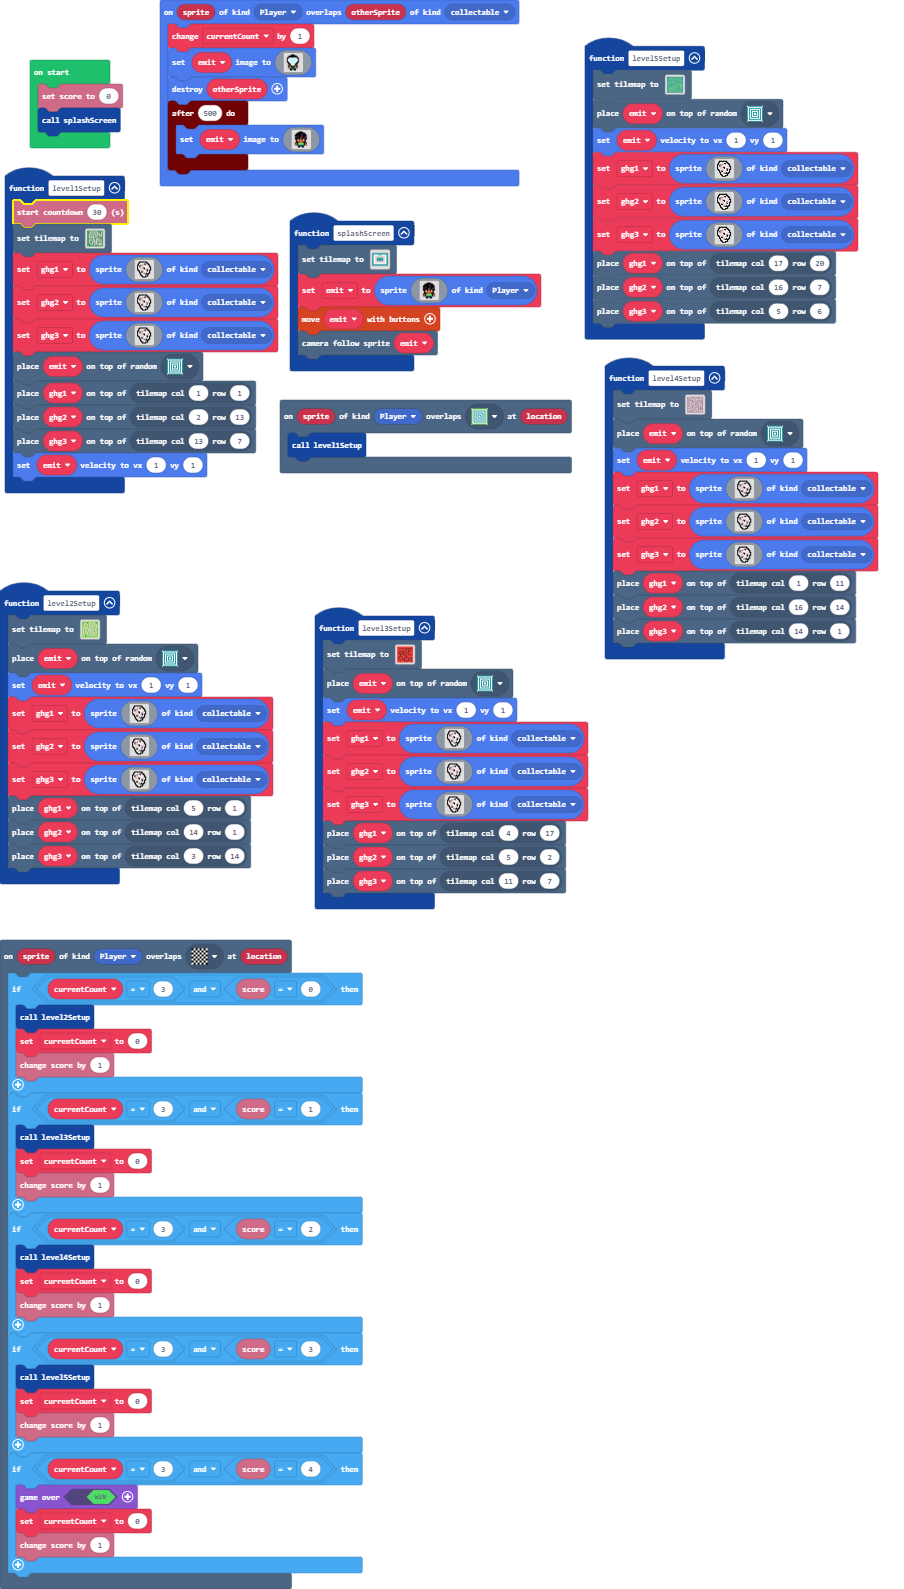
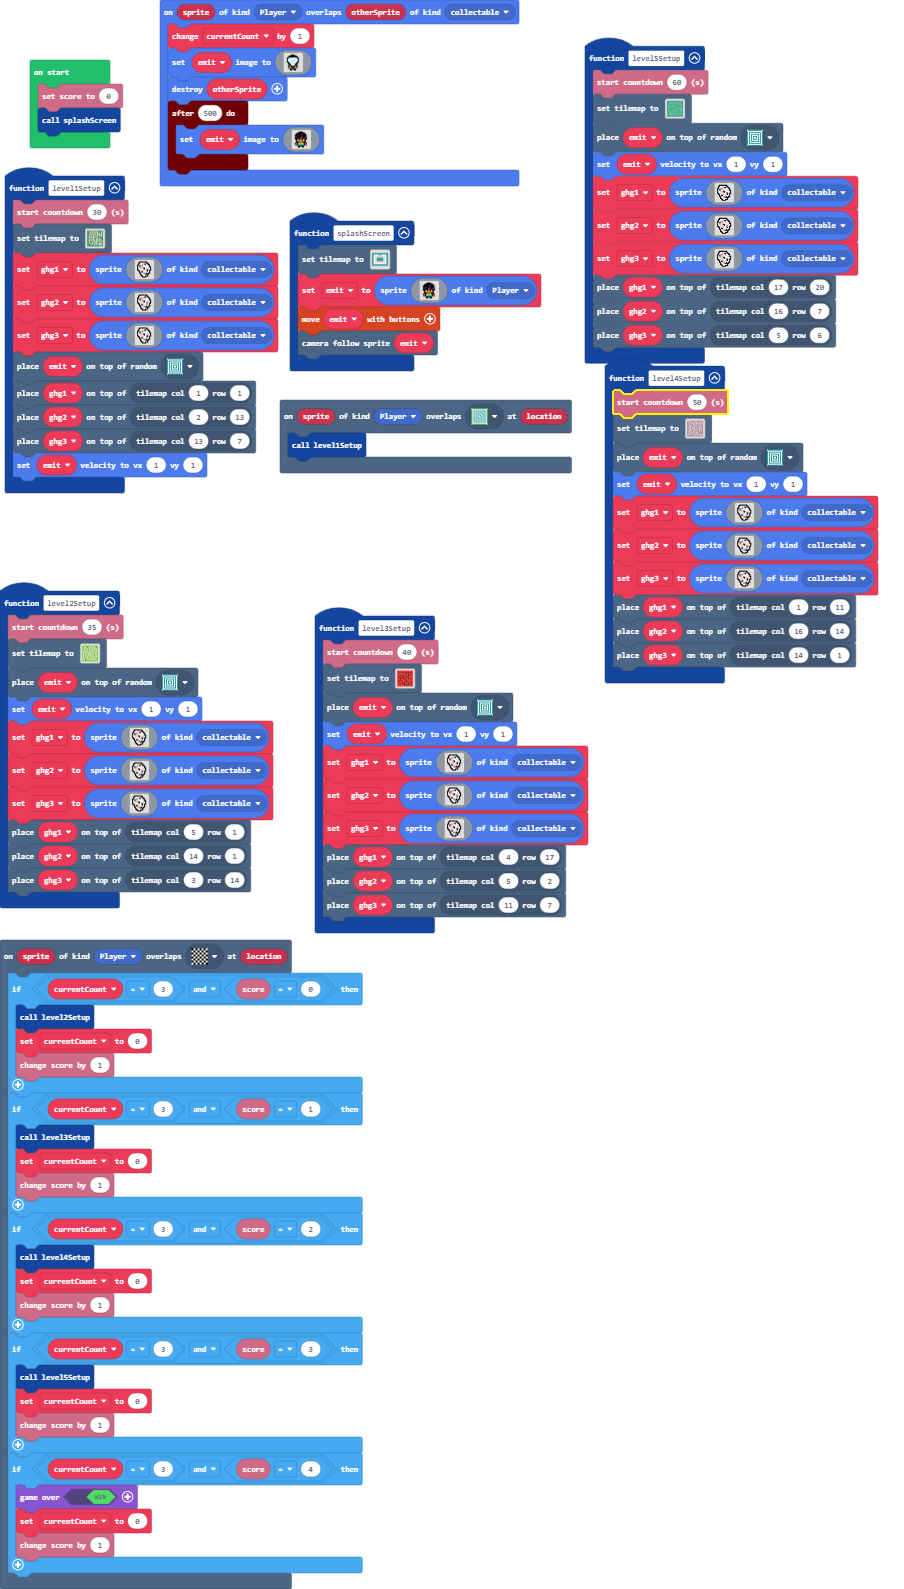
Update main.blocks, main.ts

Changed region(s): [[0.6504, 0.0308, 0.9912, 0.4317], [0.0, 0.37, 0.3097, 0.5859], [0.3407, 0.4009, 0.6504, 0.5859]]

diff --git a/main.ts b/main.ts
@@ -2,6 +2,7 @@ namespace SpriteKind {
     export const collectable = SpriteKind.create()
 }
 function level2Setup () {
+    info.startCountdown(35)
     tiles.setTilemap(tilemap`l2`)
     tiles.placeOnRandomTile(emit, assets.tile`teleporter`)
     emit.setVelocity(1, 1)
@@ -43,6 +44,7 @@ scene.onOverlapTile(SpriteKind.Player, assets.tile`startGame`, function (sprite,
     level1Setup()
 })
 function level3Setup () {
+    info.startCountdown(40)
     tiles.setTilemap(tilemap`l3`)
     tiles.placeOnRandomTile(emit, assets.tile`teleporter`)
     emit.setVelocity(1, 1)
@@ -72,6 +74,7 @@ function splashScreen () {
     scene.cameraFollowSprite(emit)
 }
 function level5Setup () {
+    info.startCountdown(60)
     tiles.setTilemap(tilemap`l5`)
     tiles.placeOnRandomTile(emit, assets.tile`teleporter`)
     emit.setVelocity(1, 1)
@@ -91,6 +94,7 @@ sprites.onOverlap(SpriteKind.Player, SpriteKind.collectable, function (sprite, o
     })
 })
 function level4Setup () {
+    info.startCountdown(50)
     tiles.setTilemap(tilemap`l4`)
     tiles.placeOnRandomTile(emit, assets.tile`teleporter`)
     emit.setVelocity(1, 1)
